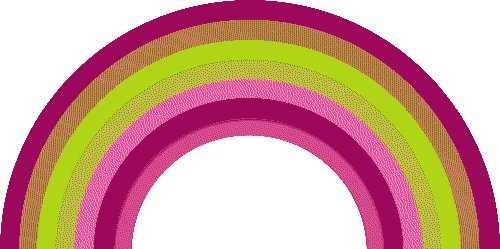
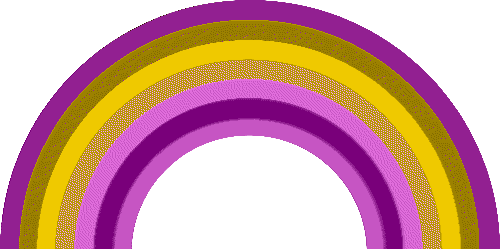
Switched to using LCH

diff --git a/src/lib.rs b/src/lib.rs
@@ -89,7 +89,8 @@ pub mod prelude {
     pub use crate::colour::gradient::{
         IntoGradient,
         IntoGradientHsl,
-        IntoGradientLch
+        IntoGradientLch,
+        IntoGradientOklch,
     };
 
     // constants
@@ -171,7 +172,7 @@ mod test {
     use palette::{Srgb, named};
 
     use crate::{
-        colour::{utils::ONE_BIT, gradient::IntoGradientOklch},
+        colour::utils::ONE_BIT,
         prelude::{*, palettes::{WEB_SAFE, EIGHT_BIT}},
         utils::image::ImageRequest, Affectable,
     };
@@ -190,8 +191,8 @@ mod test {
         let image = get_image()?;
 
         let palette = [
-            named::PURPLE.into_format().build_gradient_oklch(10),
-            named::GOLD.into_format().build_gradient_oklch(10),
+            named::PURPLE.into_format().build_gradient_lch(10),
+            named::GOLD.into_format().build_gradient_lch(10),
         ].concat();
 
         dither(&image, &ONE_BIT, Some("-mono"))?;
